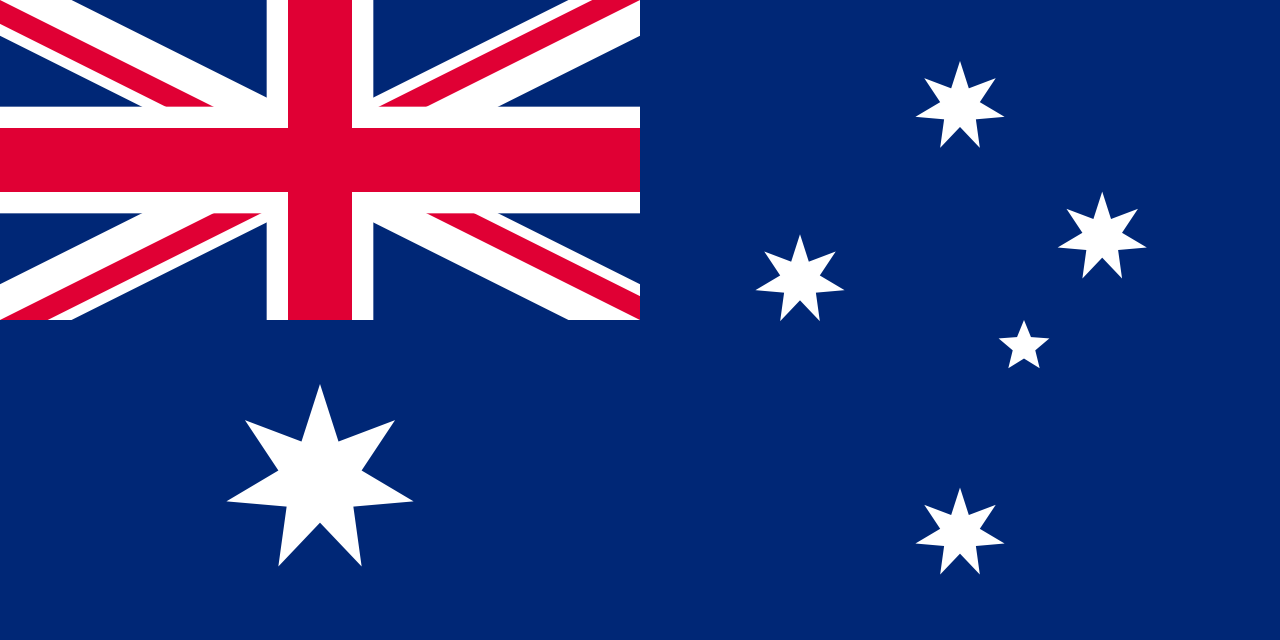
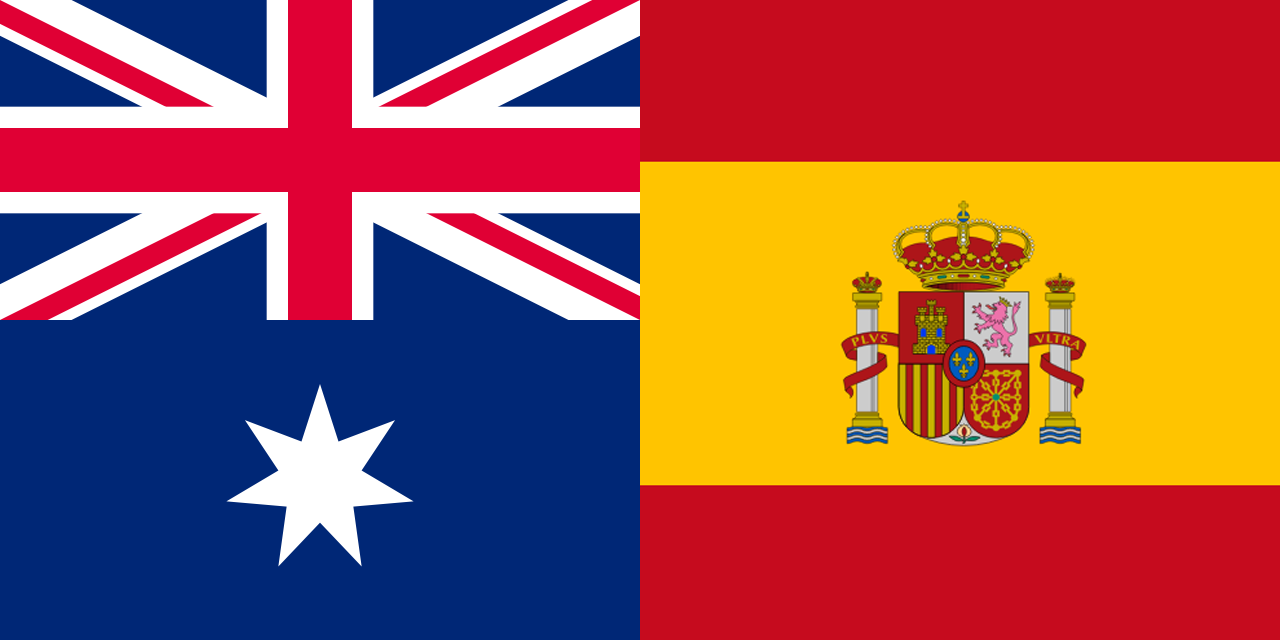
Finalen

diff --git a/index.html b/index.html
@@ -106,7 +106,7 @@
             <div style="margin-bottom: 1em;" class="w3-hide-medium w3-hide-small">
                 <div class="logo" style="display:flex;">
                     <img src="./assets/maintmaster.png" />
-                    <h2 style="margin-left:1em;">MaintMaster - Overall Australia Driver Results</h2>
+                    <h2 style="margin-left:1em;">MaintMaster - Overall Australien / Spanien Driver Results</h2>
                 </div>
             </div>
 

diff --git a/overall-7-driver-results.html b/overall-7-driver-results.html
@@ -106,7 +106,7 @@
             <div style="margin-bottom: 1em;" class="w3-hide-medium w3-hide-small">
                 <div class="logo" style="display:flex;">
                     <img src="./assets/maintmaster.png" />
-                    <h2 style="margin-left:1em;">MaintMaster - Overall Australia Driver Results</h2>
+                    <h2 style="margin-left:1em;">MaintMaster - Overall Australien / Spanien Driver Results</h2>
                 </div>
             </div>
 

diff --git a/elit-7-driver-results.html b/elit-7-driver-results.html
@@ -106,7 +106,7 @@
             <div style="margin-bottom: 1em;" class="w3-hide-medium w3-hide-small">
                 <div class="logo" style="display:flex;">
                     <img src="./assets/maintmaster.png" />
-                    <h2 style="margin-left:1em;">MaintMaster - Elit Australia Driver Results</h2>
+                    <h2 style="margin-left:1em;">MaintMaster - Elit Australien / Spanien Driver Results</h2>
                 </div>
             </div>
 

diff --git a/a-7-driver-results.html b/a-7-driver-results.html
@@ -106,7 +106,7 @@
             <div style="margin-bottom: 1em;" class="w3-hide-medium w3-hide-small">
                 <div class="logo" style="display:flex;">
                     <img src="./assets/maintmaster.png" />
-                    <h2 style="margin-left:1em;">MaintMaster - A Australia Driver Results</h2>
+                    <h2 style="margin-left:1em;">MaintMaster - A Australien / Spanien Driver Results</h2>
                 </div>
             </div>
 

diff --git a/b-7-driver-results.html b/b-7-driver-results.html
@@ -106,7 +106,7 @@
             <div style="margin-bottom: 1em;" class="w3-hide-medium w3-hide-small">
                 <div class="logo" style="display:flex;">
                     <img src="./assets/maintmaster.png" />
-                    <h2 style="margin-left:1em;">MaintMaster - B Australia Driver Results</h2>
+                    <h2 style="margin-left:1em;">MaintMaster - B Australien / Spanien Driver Results</h2>
                 </div>
             </div>
 

diff --git a/c-7-driver-results.html b/c-7-driver-results.html
@@ -106,7 +106,7 @@
             <div style="margin-bottom: 1em;" class="w3-hide-medium w3-hide-small">
                 <div class="logo" style="display:flex;">
                     <img src="./assets/maintmaster.png" />
-                    <h2 style="margin-left:1em;">MaintMaster - C Australia Driver Results</h2>
+                    <h2 style="margin-left:1em;">MaintMaster - C Australien / Spanien Driver Results</h2>
                 </div>
             </div>
 
